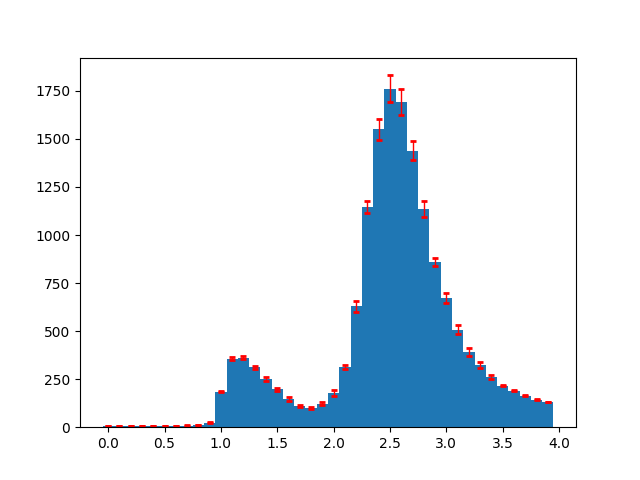
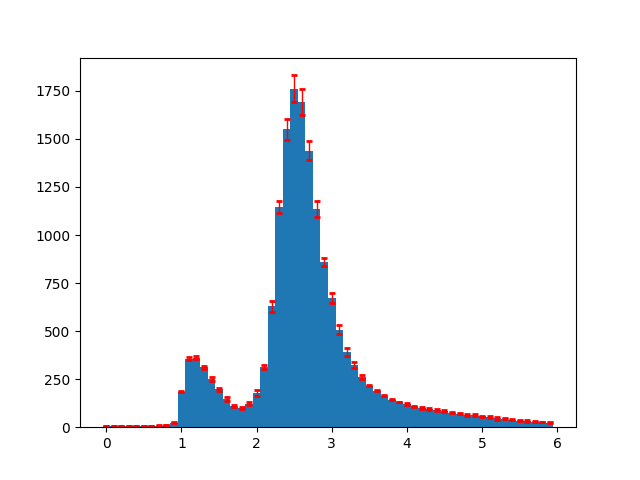
Histogram multiget done

diff --git a/scripts/multiGets/histograms.py b/scripts/multiGets/histograms.py
@@ -15,7 +15,7 @@ class Histogram:
         self.LOGFILES_PATH = path
         self.INSIDE_MW = flag
 
-    HISTOGRAM_LEN = 40
+    HISTOGRAM_LEN = 60
     TIME = 60
 
     def cdfToPdf(self, response_percentage, total_num):
@@ -70,7 +70,7 @@ class Histogram:
         file.close()
 
 
-        print(len(response_number_gets))
+        #print(len(response_number_gets))
         pdf_SET = self.cdfToPdf(response_number_sets, SET_NUM)
         pdf_GET = self.cdfToPdf(response_number_gets, GET_NUM)
 
@@ -189,21 +189,20 @@ class Histogram:
         OUT_HISTO = []
         for i in range(self.HISTOGRAM_LEN):
             element = (OUT_TIMES[i], OUT_NUMBERS[i])
-            print(element)
+            # rint(element)
             OUT_HISTO.append(element)
 
 
-        print(OUT_TIMES)
-        print(OUT_NUMBERS)
-        print(len(OUT_NUMBERS))
-        print(len(OUT_TIMES))
-        print(len(R_STD))
-
+        # print(OUT_TIMES)
+        # print(OUT_NUMBERS)
+        # print(len(OUT_NUMBERS))
+        # print(len(OUT_TIMES))
+        # print(len(R_STD))
 
         plt.bar(OUT_TIMES, OUT_NUMBERS, 0.1, yerr=R_STD, error_kw=dict(ecolor='red', lw=1, capsize=2, capthick=2))
         plt.savefig(filename)
         plt.gcf().clear()
-
+        print(max(OUT_NUMBERS))
 
     def plot_histogram_MW(self, filename):
         # Build
@@ -250,20 +249,27 @@ class Histogram:
         OUT_HISTO = []
         for i in range(self.HISTOGRAM_LEN):
             element = (OUT_TIMES[i], OUT_NUMBERS[i])
-            print(element)
+            # print(element)
             OUT_HISTO.append(element)
 
 
-        print(OUT_TIMES)
-        print(OUT_NUMBERS)
-        print(len(OUT_NUMBERS))
-        print(len(OUT_TIMES))
-        print(len(R_STD))
+        # print(OUT_TIMES)
+        # print(OUT_NUMBERS)
+        # print(len(OUT_NUMBERS))
+        # print(len(OUT_TIMES))
+        # print(len(R_STD))
 
+        OUT_NUMBERS = [x / 10 for x in OUT_NUMBERS]
+        R_STD = [x / 10 for x in R_STD]
 
+        # fig, ax = plt.subplots()
+        # ax.bar(OUT_TIMES, OUT_NUMBERS, 0.1, yerr=R_STD, error_kw=dict(ecolor='red', lw=1, capsize=2, capthick=2))
+        # ax.set_yticks(OUT_NUMBERS)
+        # plt.savefig(filename)
         plt.bar(OUT_TIMES, OUT_NUMBERS, 0.1, yerr=R_STD, error_kw=dict(ecolor='red', lw=1, capsize=2, capthick=2))
         plt.savefig(filename)
         plt.gcf().clear()
+        print(max(OUT_TIMES))
 
 
 path = "/home/ivan/asl-fall17-project/experiments/logfiles/multiGets/logfiles_multiGET_nonshard_Client"
